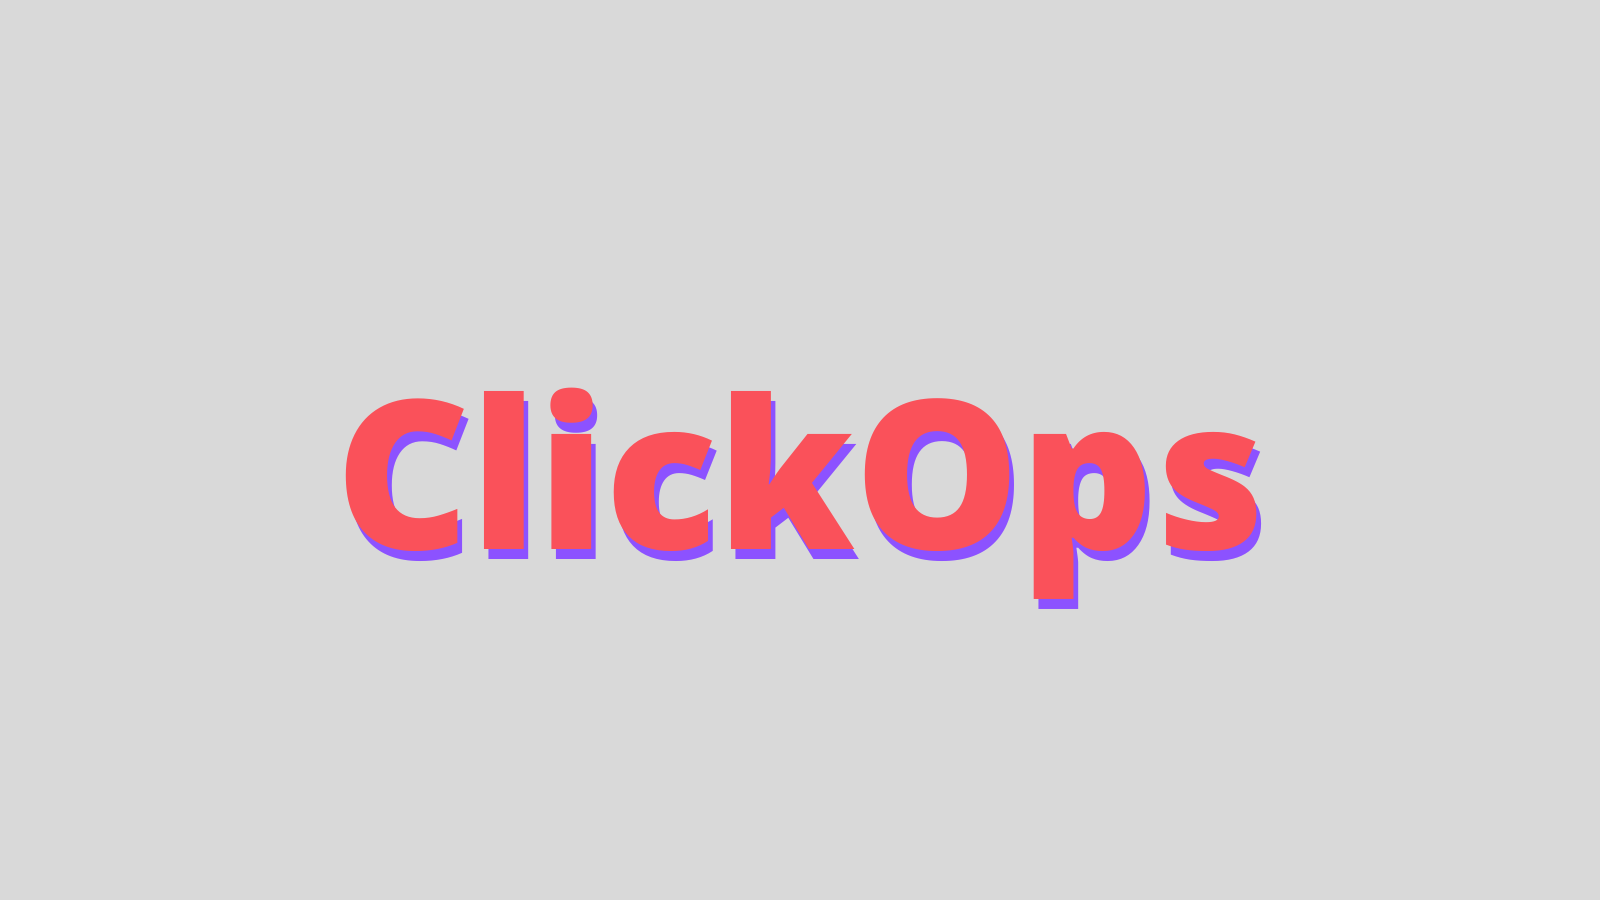
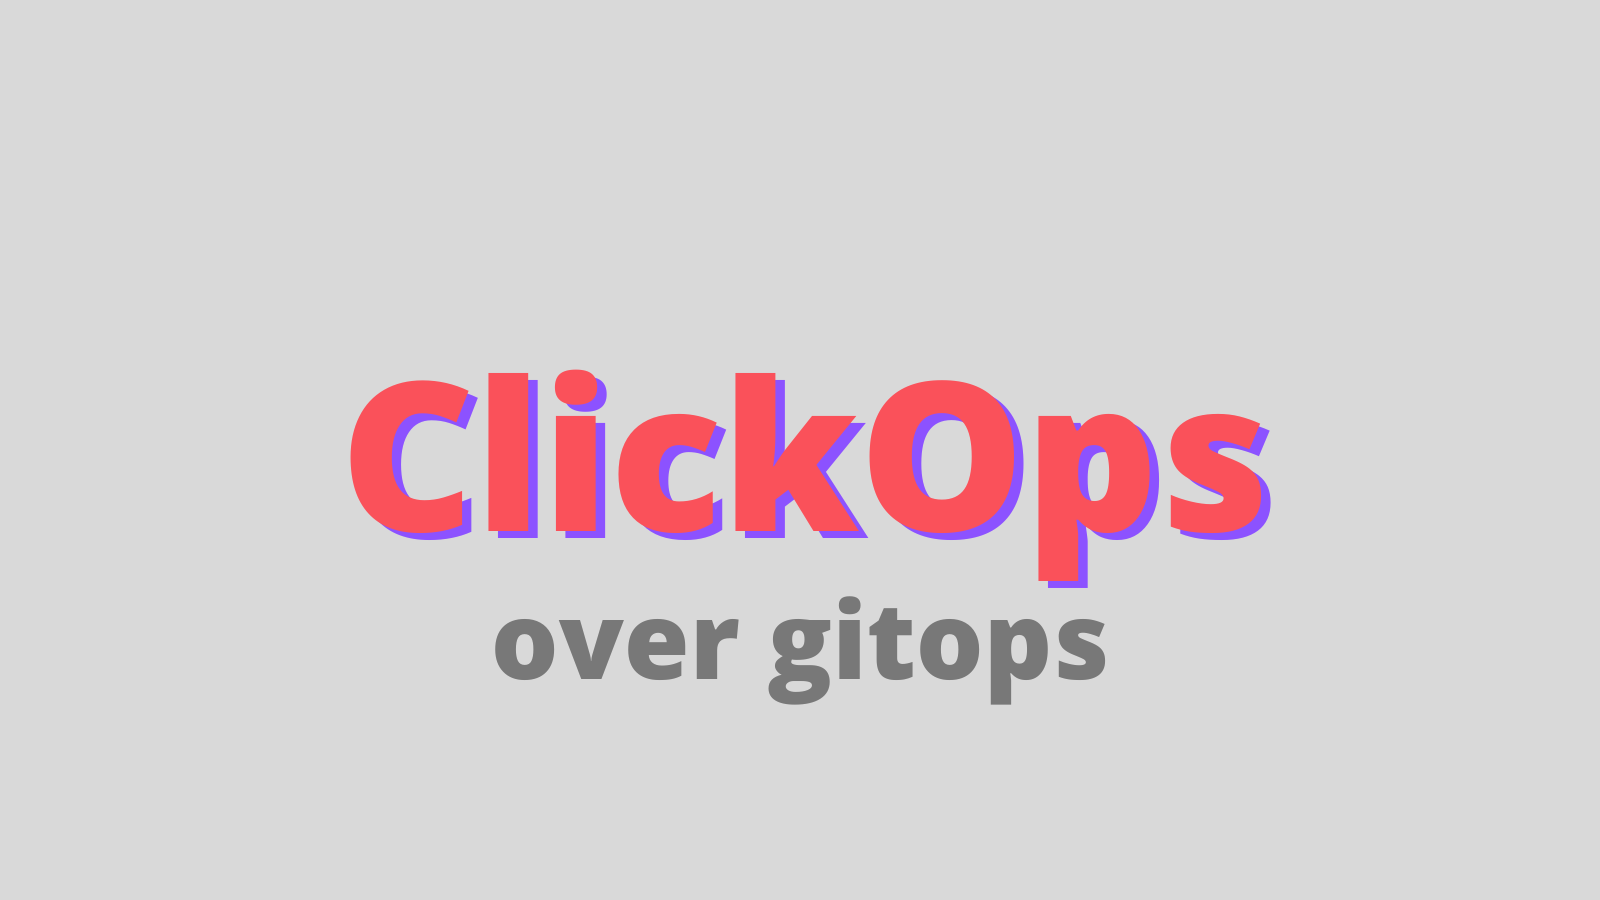
Edits

Changed region(s): [[0.2188, 0.4044, 0.8125, 0.7778]]

diff --git a/src/components/Layout.jsx b/src/components/Layout.jsx
@@ -254,6 +254,13 @@ export function Layout({ children, title, navigation, tableOfContents, pageProps
             </div>
             <h3 className='font-medium text-lg'>More from our blog</h3>
             <div className='flex mt-8'>
+              <img src="/clickops.png" className="w-48 object-contain"></img>
+              <div className='ml-2'>
+                <h2 className="mb-2 font-medium underline"><a href="/blog/clickops-over-gitops">Clickops over gitops</a></h2>
+                <div className="prose mt-2.5 text-gray-600 dark:text-gray-300 leading-tight"><p>Doing cloud operations by clicking on a dashboard that generates a stream of infrastructure as code changes.</p></div>
+              </div>
+            </div>
+            <div className='flex mt-8'>
               <img src="/why-hetzner.png" className="w-48 object-contain"></img>
               <div className='ml-2'>
                 <h2 className="mb-2 font-medium underline"><a href="/blog/announcing-the-gimlet-saas-early-access">The how and why we built our SaaS platform on Hetzner and Kubernetes</a></h2>

diff --git a/src/pages/blog/clickops-over-gitops.md b/src/pages/blog/clickops-over-gitops.md
@@ -1,6 +1,6 @@
 ---
 layout: post
-title: ClickOps
+title: Clickops over gitops
 date: "2023-03-16"
 image: clickops.png
 description: "Doing cloud operations by clicking on a dashboard that generates a stream of infrastructure as code changes."
@@ -12,13 +12,13 @@ Clickops.
 
 Not as in clicking on the AWS console.
 
-But clickops: doing cloud operations by clicking on a dashboard that is backed by a stream of infrastructure as code changes.
+But clickops over gitops: doing cloud operations by clicking on a dashboard that is backed by a stream of infrastructure as code changes.
 
 ## Prior art
 
-We did not invent the clickops term. In fact, it has been used sporadically to describe the practice when people work with cloud resources through the cloud provider's web console.
+We did not invent the clickops term. In fact, it has been used to describe the practice when people work with cloud resources through the cloud provider's web console.
 
-We are latching our clickops definition on [Corey Quinn's recent blogpost](https://www.lastweekinaws.com/blog/clickops/). Corey articulates that the problem with AWS's web console is not that it is a GUI, but that it does not work together with infrastructure as code approaches. He continues with a vision:
+We are latching our *clickops over gitops* definition on [Corey Quinn's recent blogpost](https://www.lastweekinaws.com/blog/clickops/). Corey articulates that the problem with AWS's web console is not that it is a GUI, but that it does not work together with infrastructure as code approaches. He continues with a vision:
 
 > I envision a world in which I can set things up in the AWS console [..] via the magic of clicking things. The provider captures what I set up and renders it into code or configuration somewhere, [..], then automatically generates diffs in the correct repository, or updates its [..] environment as it exists at the current moment.
 
@@ -26,11 +26,11 @@ We share this vision at Gimlet. And we believe that the state of the art in the 
 
 By 2023, gitops became the de-facto operation model of the Kubernetes ecosystem. We are standing on the shoulders of open-source giants: Weaveworks and the ArgoCD project put immense effort in popularizing the gitops approach, while the Crossplane project opened new horizons in what is possible.
 
-## Clickops over gitops, the tech
+## The tech
 
-The tech matters. It sets the scope where we think clickops is viaable.
+The tech matters. It sets the scope where we think clickops is viable.
 
-Definitions are often not prescriptive enough, so here we are: when we talk about clickops, we mean clickops over gitops. And when we say gitops, we mean Flux and ArgoCD delivering custom and built-in Kubernetes resources to the cluster.
+Definitions are often not prescriptive enough, so here we are: when we talk about clickops, we mean clickops over gitops. And when we say gitops, we mean Flux and ArgoCD delivering Kubernetes resources to the cluster.
 
 Even if you are not familiar with these tools, you will surely be able to make sense the following yaml bits:
 
@@ -95,11 +95,11 @@ spec:
 
 All are descriptive yaml files. Controllers on Kubernetes are looking for these resources, and if you create a new one, they will create the matching infrastructure.
 
-Kubernetes resources and their controllers reduced infrastructure privisioning into putting yaml files into a git repository. This declarative approach allows clickops tools to just render a stream of yaml templates based on user clicks. How those cloud resources come to life is handled by the ecosystem.
+Kubernetes resources and their controllers reduced infrastructure provisioning into putting yaml files into a git repository. This declarative approach allows clickops tools to just render a stream of yaml templates based on user clicks. How those cloud resources come to life is handled by the ecosystem.
 
 ## Scope matters
 
-We don't think that a general purpose, visual Terraform editor should be the focus of clickops. Or every problem under the platform engineering umbrella should be solved by dashboards.
+We don't think that a general purpose, visual Terraform editor should be the focus for clickops. Or every problem under the platform engineering umbrella should be solved by dashboards.
 
 But we do think that there is a subset of problems in platform engineering where clickops shines: automating common tasks in deploying and configuring web applications:
 
@@ -113,28 +113,28 @@ Ultimately, clickops must know its boundaries. Otherwise it will turn into an en
 
 But if scope is limited, clickops should adhere to a few musts to not limit the user.
 
-## Clickops must be robust
+## Clickops over gitops must be robust
 
 It must respect the edits made directly to infrastructure as code: 
 - It must not break if someone edits the source code.
 - It must not lose custom edits.
 
-## Clickops must be transparent
+## Clickops over gitops must be transparent
 
-- The infrastructure as code repository must be accessible for peoplpe who prefer to work outside of clickops tools.
-- Clickops must fit the workflows, like merge request reviews, that people follow when making code changes.
+- The infrastructure as code repository must be accessible for people who prefer to work outside of clickops tools.
+- Clickops must fit the workflows, like merge request reviews, that people follow when making direct code changes to infrastructure as code.
 
-## Who is clickops for
+## Who is clickops over gitops for
 
 Unlike popular belief, dashboards are not made for the inexperienced.
 
 Clickops is made for the otherwise smart people, who understand what is going on, but 
 
 - not confident enough
-- too busy to
+- too busy
 - focusing on other part of the software lifecycle
 
-to write the yaml bits from scratch for errorprone and otherwise repetative tasks.
+to write the yaml bits from scratch for error prone and otherwise repetitive tasks.
 
 If you don't believe us, we are happy to circle back Corey's points: we are pretty sure you are not reading this article in a command line browser.
 

diff --git a/src/pages/blog/index.md b/src/pages/blog/index.md
@@ -2,7 +2,7 @@
 title: Blog
 ---
 
-{% post name="Clickops" image="clickops.png" link="/blog/clickops" date="2023-03-16" %}
+{% post name="Clickops over gitops" image="clickops.png" link="/blog/clickops-over-gitops" date="2023-03-16" %}
 Doing cloud operations by clicking on a dashboard that generates a stream of infrastructure as code changes.
 {% /post %}
 
